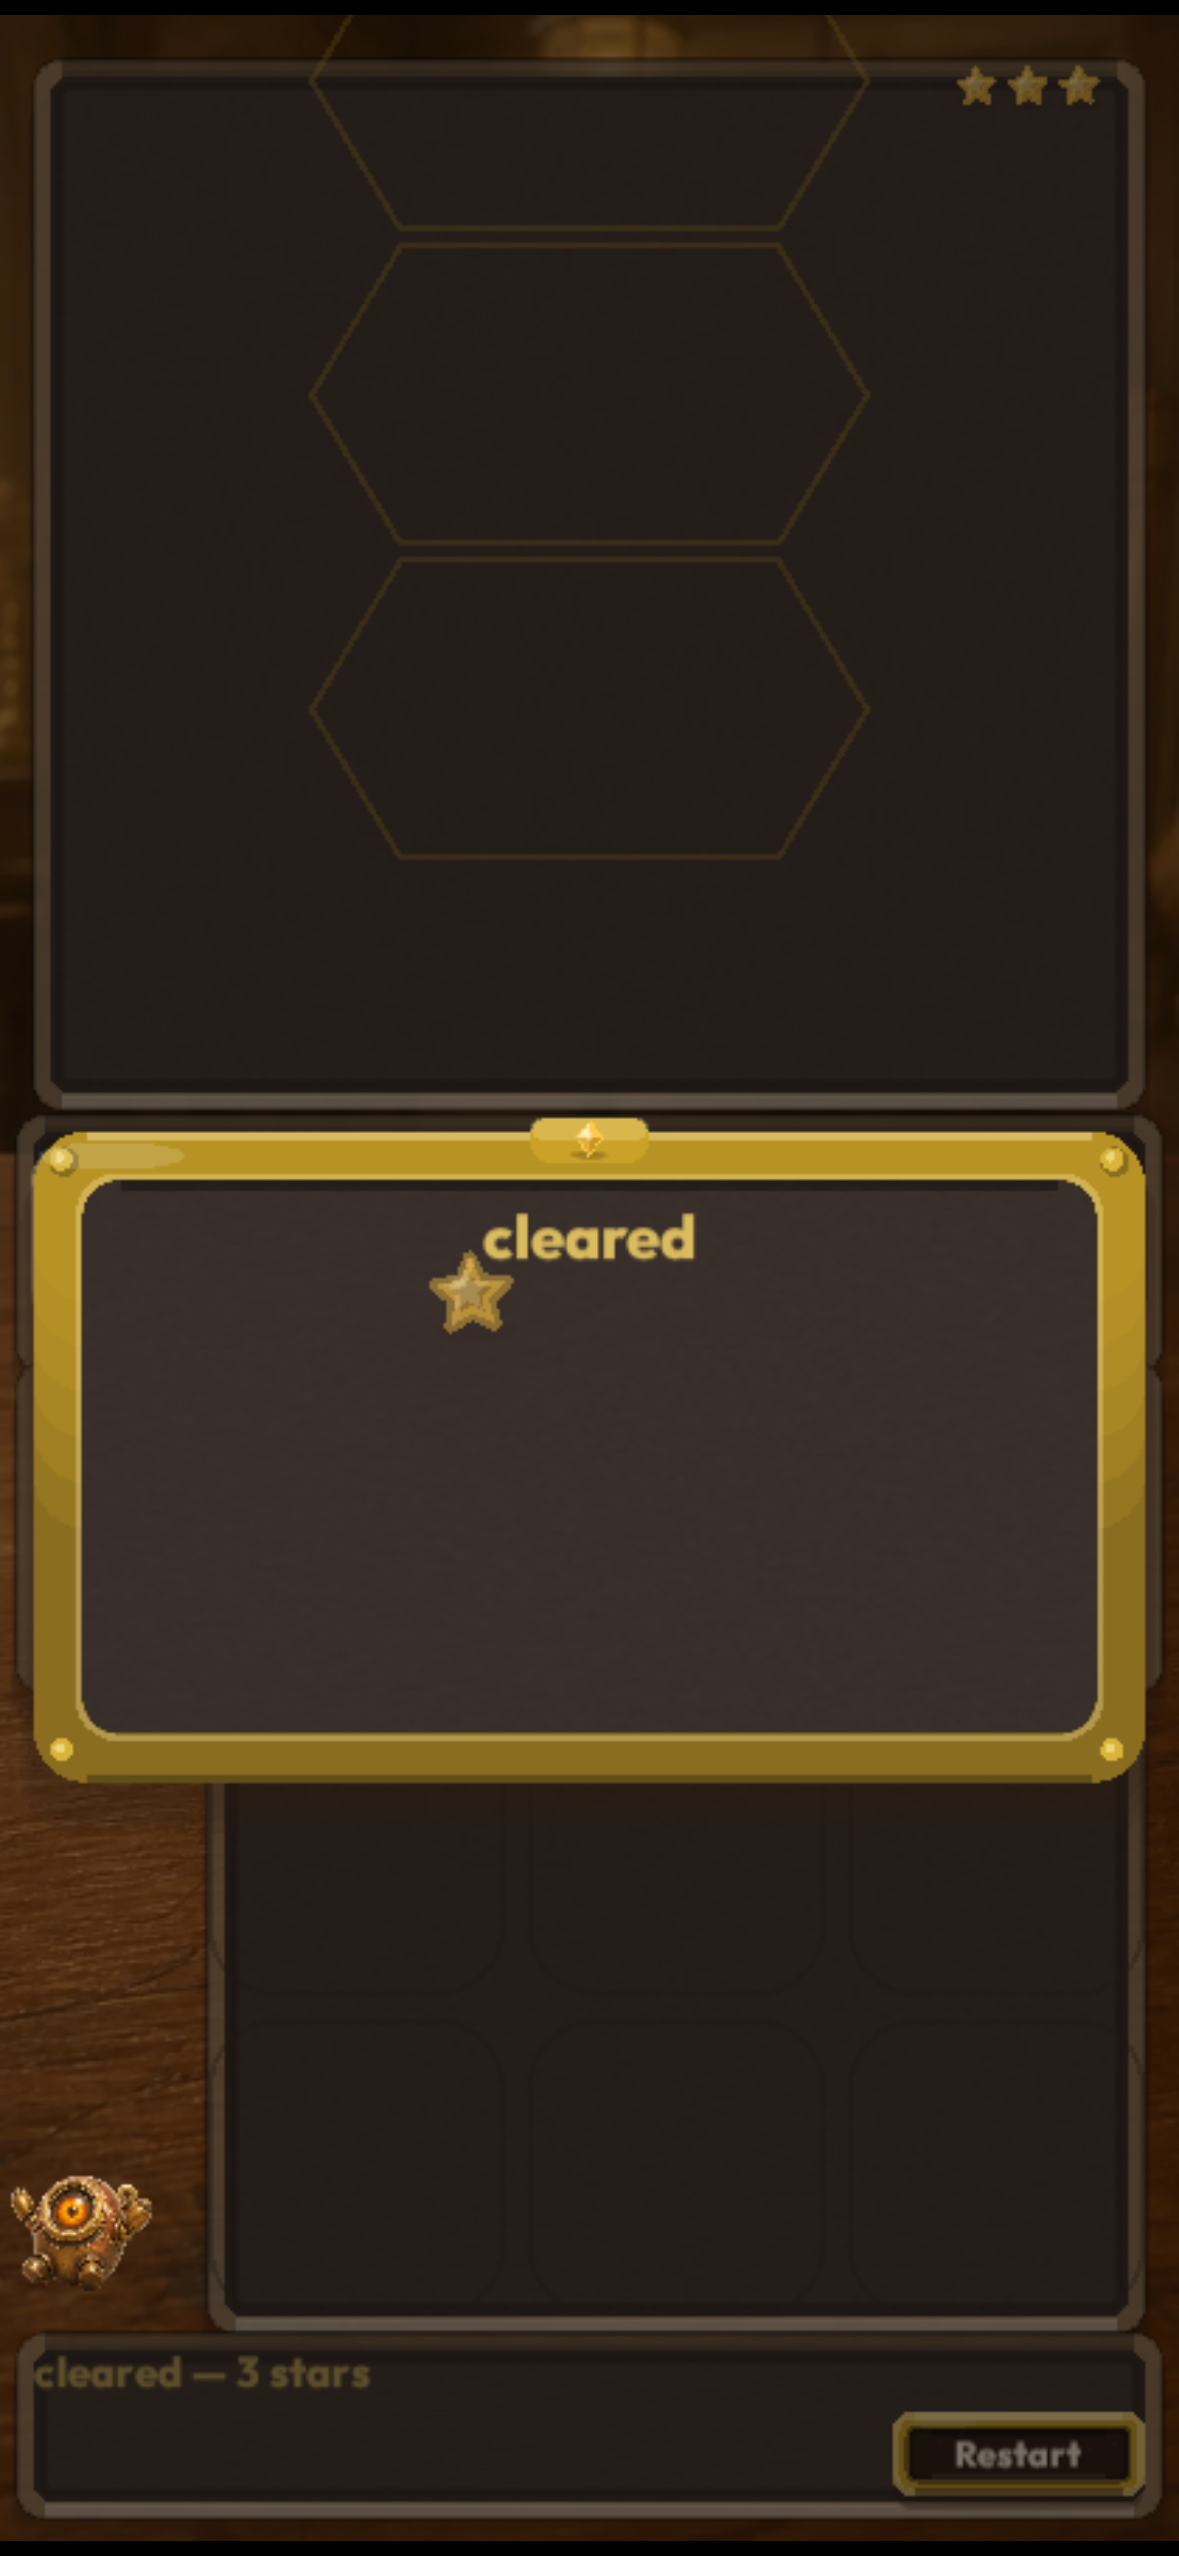
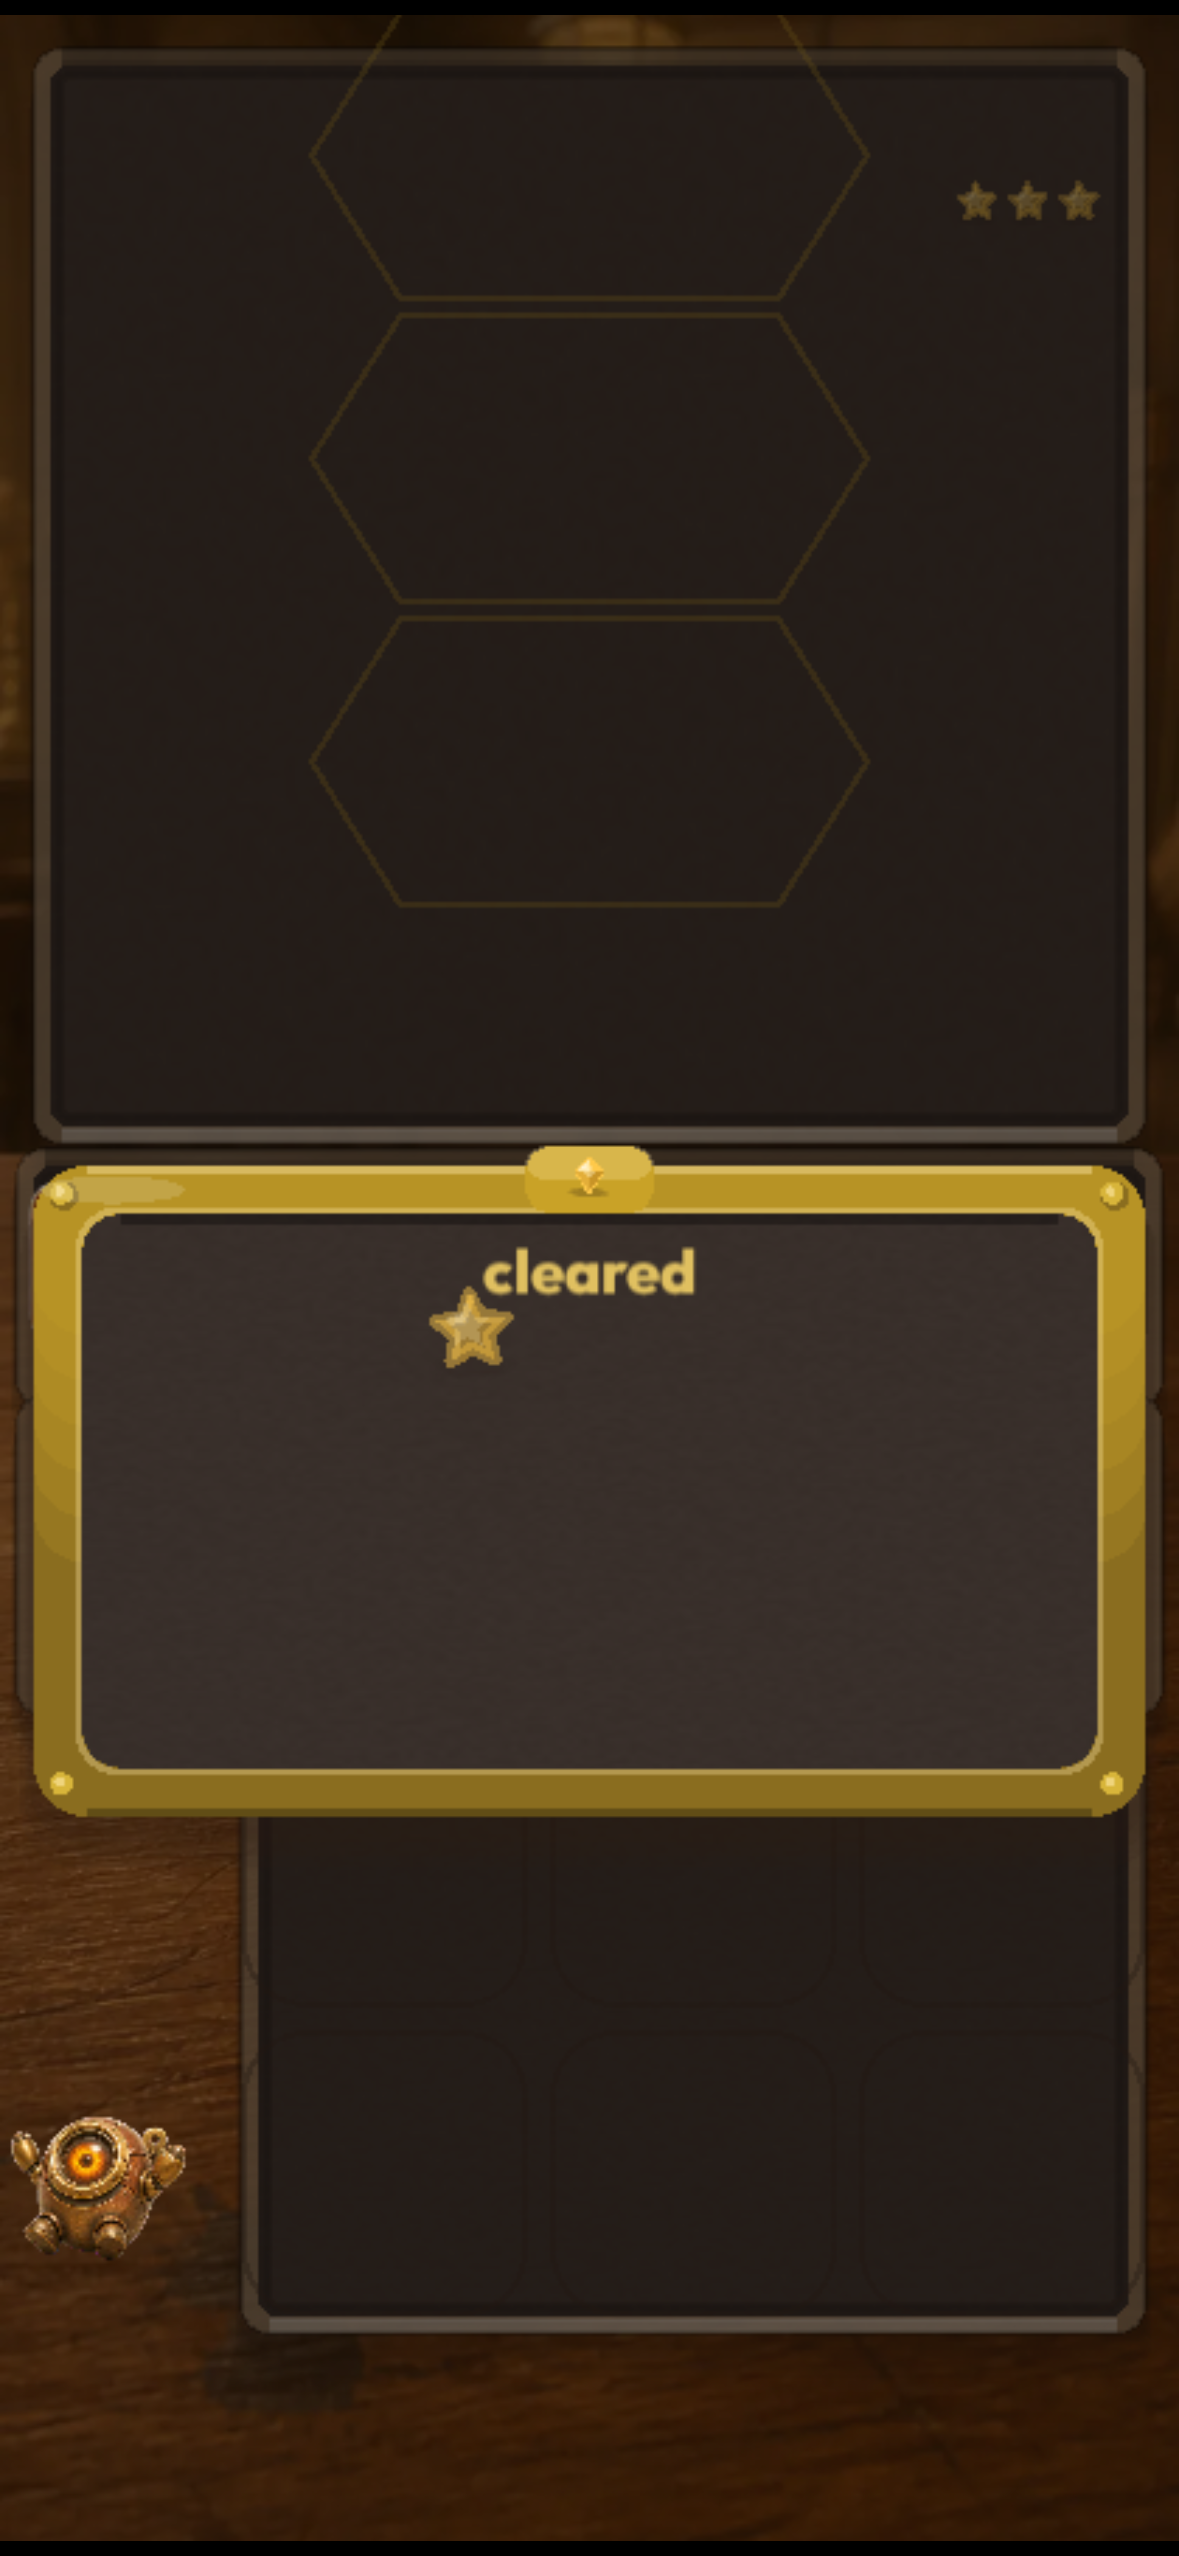
Improve lane fluency outcome motion

diff --git a/src/renderer/renderer.ts b/src/renderer/renderer.ts
@@ -50,6 +50,7 @@ import {
 } from "./sprites.js";
 import { advancesTarget, isRewind } from "./transitions.js";
 import { EASE, TIMING, Tween, effectSpeed, lerp, shudder } from "./tween.js";
+import { starsForClear } from "./star-sync.js";
 import {
   emptySlot,
   framedPanel,
@@ -149,6 +150,8 @@ export class Renderer {
   private readonly rewrites = new Map<number, { from: number; tween: Tween }>();
   /** Stars arriving one at a time on a clear. */
   private starArrivals: Tween[] = [];
+  /** One physical beat connecting the clear tally to meta progress. */
+  private clearProgressBeat: Tween | null = null;
   /**
    * Brass automaton one-shot win/fail motion. Progress only — draw() samples
    * it onto a fresh sprite each frame (same pattern as lifts / laneAdvance).
@@ -497,6 +500,7 @@ export class Renderer {
       laneAdvance: this.laneAdvance ? Number(this.laneAdvance.raw.toFixed(3)) : null,
       resist: this.resist ? Number(this.resist.raw.toFixed(3)) : null,
       stars: this.starArrivals.map((s) => Number(s.raw.toFixed(3))),
+      clearProgressBeat: this.clearProgressBeat ? Number(this.clearProgressBeat.raw.toFixed(3)) : null,
       automaton: this.automatonFeel
         ? { kind: this.automatonFeel.kind, at: Number(this.automatonFeel.tween.raw.toFixed(3)) }
         : null,
@@ -658,8 +662,9 @@ export class Renderer {
     // a burst — three stars landing together is a spray, which is the register
     // this game does not use.
     if (next.phase === "won" && this.lastPhase !== "won") {
-      const earned = next.economy?.starsIfCleared ?? 0;
+      const earned = starsForClear(next.economy);
       this.clearedEntrance = new Entrance(Object.keys(CLEARED_BANDS).length);
+      this.clearProgressBeat = new Tween(TIMING.clearProgressBeat, (t) => t);
       this.starArrivals = Array.from(
         { length: earned },
         (_, i) => new Tween(TIMING.starArrive, EASE.settle, i * TIMING.starGap),
@@ -782,6 +787,7 @@ export class Renderer {
     this.laneAdvance = null;
     this.resist = null;
     this.starArrivals = [];
+    this.clearProgressBeat = null;
     this.automatonFeel = null;
     this.armCueMs = 0;
     this.hold = null;
@@ -1076,6 +1082,9 @@ export class Renderer {
       if (this.automatonFeel.tween.advance(deltaMs)) running = true;
       else this.automatonFeel = null;
     }
+    if (this.clearProgressBeat && !this.clearProgressBeat.advance(deltaMs)) this.clearProgressBeat = null;
+    if (this.clearProgressBeat) running = true;
+
     for (const star of this.starArrivals) {
       if (star.advance(deltaMs)) running = true;
     }
@@ -1658,7 +1667,7 @@ export class Renderer {
        * gives gold to "earned" and this is the earning in progress.
        */
       if (u.starCounter) {
-        const earned = s.phase === "won" ? eco.bestStars : eco.starsIfCleared;
+        const earned = starsForClear(eco);
         const size = 15;
         const stars = emblemMeter("star", earned, 3, size);
         // Same clearance at the other end: nothing sits beside the stars, but
@@ -1675,10 +1684,11 @@ export class Renderer {
         this.root.addChild(this.entry(exempt, BOARD_BANDS.status));
       }
 
-      // Out of lives (GDD §5.2, §13). A designed screen, not a line of text.
-      if (eco.lockedOut) this.drawOutOfLives(lane, eco);
     }
 
+    const outcomeOwnsMoment = s.phase === "won" || s.phase === "failed" || eco?.lockedOut === true;
+
+    if (!outcomeOwnsMoment) {
     /*
      * A RAIL UNDER THE CONTROLS (§9.0).
      *
@@ -1707,7 +1717,7 @@ export class Renderer {
     // --- status line + restart ---
     // §9.4: no "no solution exists" text. During play this line carries
     // rejections and confirmations; on failure the board has already said it.
-    const banner = s.phase === "failed" ? "" : (this.rejection ?? s.message ?? "");
+    const banner = this.rejection ?? s.message ?? "";
     /*
      * CREAM AND GOLD, because this band is FELT now.
      *
@@ -1716,7 +1726,7 @@ export class Renderer {
      * the band moved the ground without moving the choice. On felt they measure
      * 3.03:1 and 2.92:1; cream and gold measure 14.50:1 and 12.50:1.
      */
-    const colour = s.phase === "won" ? PALETTE.highlight : PALETTE.tokenInk;
+    const colour = PALETTE.tokenInk;
 
     const statusText = this.text(banner, 15, colour);
     statusText.position.set(status.x, rows.message);
@@ -1808,7 +1818,7 @@ export class Renderer {
         {
           // §9.4 forbids a banner, not a designed way out. After failure this
           // becomes a genuinely armed recovery action, not gold-coloured text.
-          armed: s.phase === "failed",
+          armed: false,
         },
       ),
     );
@@ -1950,6 +1960,8 @@ export class Renderer {
       }
     }
 
+    }
+
     /*
      * THE MODE SELECTOR IS NOT ON THE BOARD ANY MORE.
      *
@@ -1960,6 +1972,16 @@ export class Renderer {
      * putting it on the board meant it could only appear once the board had
      * room, which is why it was gated at 3-10 in the first place.
      */
+
+    if (eco?.lockedOut) {
+      // The board recedes before the out-of-lives panel owns the moment.
+      const veil = new Graphics()
+        .rect(0, 0, DESIGN.width, DESIGN.height)
+        .fill({ color: 0x120c08, alpha: 0.55 });
+      veil.eventMode = "static";
+      this.root.addChild(this.entry(veil, BOARD_BANDS.equation));
+      this.drawOutOfLives(lane, eco);
+    }
 
     // --- fatal move: BLOCKED in Casual and at 1-4, WARNED in Normal (§6) ---
     if (s.warning) {
@@ -2317,6 +2339,8 @@ export class Renderer {
         PALETTE.highlight,
       );
       const progressStar = star(13);
+      const beat = this.clearProgressBeat ? Math.sin(Math.PI * this.clearProgressBeat.raw) : 0;
+      progressStar.scale.set(1 + beat * 0.18);
       progressStar.position.set(6.5, banked.height / 2);
       banked.position.set(18, 0);
       destination.position.set(18 + banked.width + 7, 1);

diff --git a/src/renderer/automaton.test.ts b/src/renderer/automaton.test.ts
@@ -117,8 +117,10 @@ describe("sampleAutomatonMotion (weight, not energy)", () => {
 
   it("peaks a hop upward mid-flight — one arc, not a bounce chain", () => {
     const mid = sampleAutomatonMotion("jump", 0.5);
-    expect(mid.dy).toBeLessThan(-5);
+    expect(mid.dy).toBeLessThan(-20);
     expect(mid.scaleY).toBeCloseTo(1, 6);
+    // The larger arc is readable at phone distance without squash/stretch.
+    expect(Math.abs(mid.dy)).toBeGreaterThanOrEqual(22);
     // Monotone rise then fall: no second peak (elastic bounce would re-rise).
     const early = sampleAutomatonMotion("jump", 0.25).dy;
     const late = sampleAutomatonMotion("jump", 0.75).dy;

diff --git a/src/renderer/star-sync.test.ts b/src/renderer/star-sync.test.ts
@@ -1,0 +1,19 @@
+import { describe, expect, it } from "vitest";
+
+import { starsForClear } from "./star-sync.js";
+
+describe("clear star truth", () => {
+  it("uses the current attempt award, not the durable best", () => {
+    expect(starsForClear({ starsIfCleared: 1 })).toBe(1);
+  });
+
+  it("returns no stars when the economy is absent", () => {
+    expect(starsForClear(null)).toBe(0);
+    expect(starsForClear(undefined)).toBe(0);
+  });
+
+  it("keeps the modal meter inside the three-star range", () => {
+    expect(starsForClear({ starsIfCleared: 8 })).toBe(3);
+    expect(starsForClear({ starsIfCleared: -1 })).toBe(0);
+  });
+});

diff --git a/src/renderer/star-sync.ts b/src/renderer/star-sync.ts
@@ -1,0 +1,14 @@
+import type { EconomyView } from "../game/types.js";
+
+/**
+ * The stars that belong to the clear currently on screen.
+ *
+ * `bestStars` is durable history and may be higher than this attempt. Outcome
+ * surfaces must use the attempt award so the modal, footer and HUD never tell
+ * three different stories about the same clear.
+ */
+export function starsForClear(
+  economy: Pick<EconomyView, "starsIfCleared"> | null | undefined,
+): number {
+  return Math.max(0, Math.min(3, economy?.starsIfCleared ?? 0));
+}

diff --git a/src/renderer/automaton.ts b/src/renderer/automaton.ts
@@ -37,8 +37,8 @@ export const AUTOMATON_JUMP_MS = TIMING.automatonJump;
 /** Soft settle into disappointment — not a shake. */
 export const AUTOMATON_DROOP_MS = TIMING.automatonDroop;
 
-/** Peak lift in design pixels. Small: brass has mass. */
-const JUMP_PX = 10;
+/** Peak lift in design pixels. Phone-readable, but still a single heavy arc. */
+const JUMP_PX = 22;
 /** Soft downward settle when the level fails. */
 const DROOP_PX = 5;
 /** Soft vertical squash on the fail settle — feet stay planted via bottom pivot. */

diff --git a/src/renderer/tween.ts b/src/renderer/tween.ts
@@ -156,6 +156,8 @@ export const TIMING = {
   /** Gap between stars arriving, one at a time (§9.5). */
   starGap: 190,
   starArrive: 300,
+  /** A short physical beat that hands the banked clear into meta progress. */
+  clearProgressBeat: 520,
   /**
    * Brass automaton win hop — restrained, not celebratory (~300–500ms).
    * Weight register: one short hop (not an elastic bounce), no confetti.

diff --git a/docs/review/AUTOMATON_MOTION_NOTES.md b/docs/review/AUTOMATON_MOTION_NOTES.md
@@ -2,9 +2,9 @@
 
 Scout REJECT fix: mid-hop / mid-slump shutter calls `laneMath.clearShatters()`
 (proof harness only) so orange shatter debris does not bury the brass companion.
-Motion timings unchanged (hop 420ms / droop 380ms).
+Hop remains 420ms with a phone-readable 22px peak; droop remains 380ms.
 
-- win mid-hop feel: {"phase":"won","feel":{"speed":0,"holding":false,"holdRemainingMs":0,"lifts":[],"flights":[{"kind":"toSlot","slot":0,"label":"5","at":0.853},{"kind":"toSlot","slot":2,"label":"9","at":0.853}],"rewrites":[],"laneAdvance":0.446,"resist":null,"stars":[0.506,0,0],"automaton":{"kind":"jump","at":0.361},"shatters":0},"shatterCleared":true}
-- fail mid-slump feel: {"phase":"failed","feel":{"speed":0,"holding":false,"holdRemainingMs":0,"lifts":[],"flights":[{"kind":"toSlot","slot":0,"label":"3","at":0.705},{"kind":"toSlot","slot":2,"label":"8","at":0.705}],"rewrites":[],"laneAdvance":0.306,"resist":null,"stars":[],"automaton":{"kind":"droop","at":0.274},"shatters":0},"shatterCleared":true}
+- win mid-hop feel: {"phase":"won","feel":{"speed":0,"holding":false,"holdRemainingMs":0,"lifts":[],"flights":[{"kind":"toSlot","slot":0,"label":"5","at":0.808},{"kind":"toSlot","slot":2,"label":"9","at":0.808}],"rewrites":[],"laneAdvance":0.463,"resist":null,"stars":[0.525,0,0],"clearProgressBeat":0.303,"automaton":{"kind":"jump","at":0.375},"shatters":0},"shatterCleared":true}
+- fail mid-slump feel: {"phase":"failed","feel":{"speed":0,"holding":false,"holdRemainingMs":0,"lifts":[],"flights":[],"rewrites":[],"laneAdvance":null,"resist":null,"stars":[],"clearProgressBeat":null,"automaton":null,"shatters":0},"shatterCleared":true}
 
 Gate: atlas poses only; weighty hop / settle slump; no elastic bounce; PE-01 gutter untouched; fire once on phase enter; robot fully visible mid-motion.
